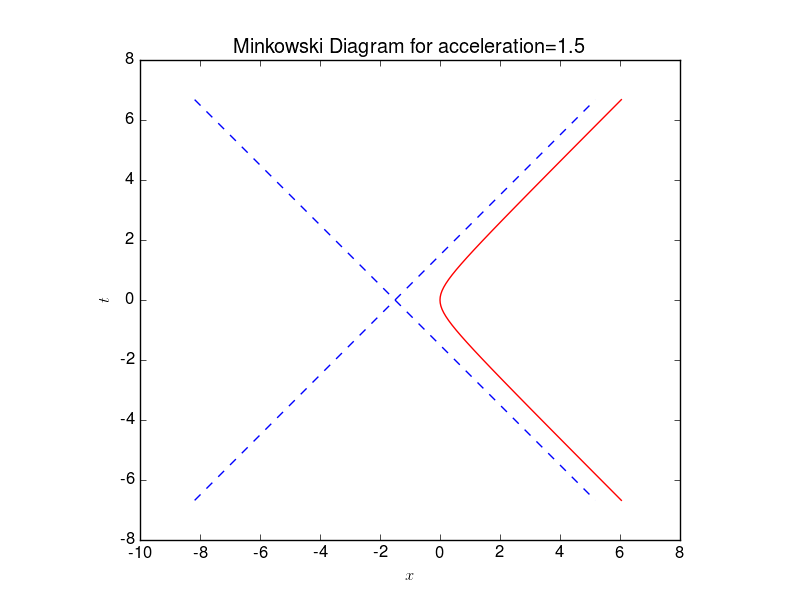
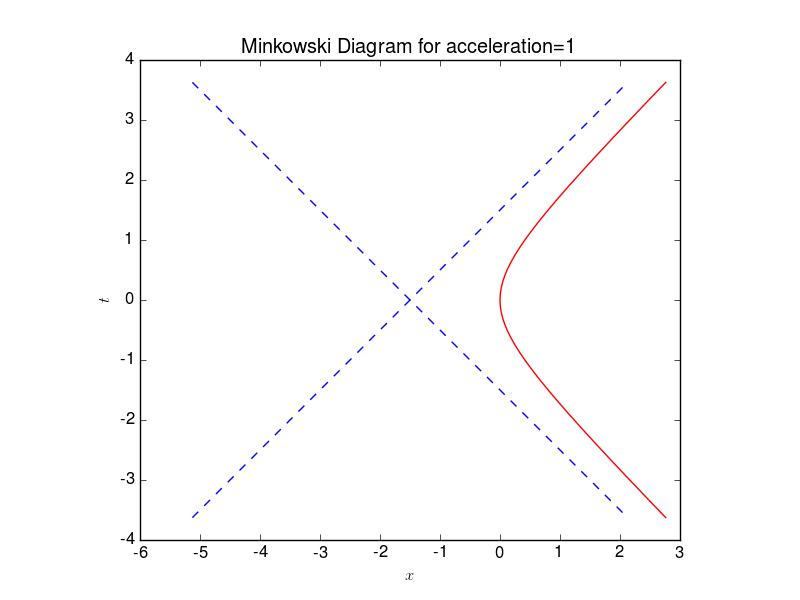
Minor simplification

diff --git a/GR-Problem-5-1.py b/GR-Problem-5-1.py
@@ -24,10 +24,8 @@ def create_steady_acceleration(a=1.5,s0=-2,s1=2,step=0.1):
 
 # Convert (t,x) style coordinates for Minkowski space to 
 # Coordinates suitable for a Penrose Carter diagram
-def convert_to_penrose_carter(z):
-     (t,x)=zip(*z)    
-     atans=[(m.atan(tt+xx),m.atan(tt-xx)) for (tt,xx) in z]
-     return [(a+b,a-b) for (a,b) in atans]
+def convert_to_penrose_carter(z): 
+     return [(a+b,a-b) for (a,b) in [(m.atan(t+x),m.atan(t-x)) for (t,x) in z]]
 
 # Plot a list of points, assuming Minkowski coordinates
 def minkowski_plot(z,figure=1,a=1.5,
@@ -52,20 +50,18 @@ def minkowski_plot(z,figure=1,a=1.5,
 
 # Plot a list of points, assuming
 # Penrose-Carter coordinates     
-def penrose_carter_plot(pc,gap=0.25,figure=1,
+def penrose_carter_plot(penrose_carter,gap=0.25,figure=1,
                         title='Penrose Carter Diagram'):
      # Function used to represent a light ray from one
      # boundary to another
      def light_ray():
-          # Function used to retrict a list to 
+          # Function used to restrict a list to 
           # being within boundafry
           def filter(zs):
-               return [(t,x) for (t,x) in zs
-                       if abs(x+t)<m.pi] 
-          t_last,x_last=pc[-1]
-          return filter([(x+t_last-x_last,x)
-                         for x in drange(-2.5,2.5,0.1)])
-     (t,x)=zip(*pc)
+               return [(t,x) for (t,x) in zs if abs(x+t)<m.pi] 
+          t_last,x_last=penrose_carter[-1]
+          return filter([(x+t_last-x_last,x) for x in drange(-2.5,2.5,0.1)])
+     (t,x)=zip(*penrose_carter)
      # Generate data for boundary and axes
      boundary_minus=list(drange(-m.pi,0))
      boundary_plus=list(drange(0,m.pi))
@@ -77,10 +73,10 @@ def penrose_carter_plot(pc,gap=0.25,figure=1,
      ax.set_aspect('equal')
      plt.rc('text', usetex=True)
      plt.plot(x,t,'r',
-              boundary_minus,boundary_plus,'b--',
-              boundary_plus,boundary_plus[::-1],'b--',
-              boundary_minus,boundary_minus[::-1],'b--',
-              boundary_plus,boundary_minus,'b--',
+              boundary_minus,boundary_plus,'m--',
+              boundary_plus,boundary_plus[::-1],'g--',
+              boundary_minus,boundary_minus[::-1],'c--',
+              boundary_plus,boundary_minus,'y--',
               i0,zeroes,'b',
               zeroes,i0,'b',
               x_light,t_light,'k:')
@@ -99,15 +95,14 @@ def penrose_carter_plot(pc,gap=0.25,figure=1,
      plt.xlabel(r'$\xi$')
      plt.ylabel(r'$\psi$')
      plt.title(title)
-     plt.savefig('images/GR-Problem-5-1-{0}.png'
-                 .format(figure))
+     plt.savefig('images/GR-Problem-5-1-{0}.png'.format(figure))
 
 if __name__=='__main__': 
      # We will do a Minkowski plot over a shorter range 
      # then the Penrose Carter, as otherwise scaling will
      # lose much of the detail from the plot
      
-     a=1.5
+     a=1
      minkowski_plot(
           create_steady_acceleration(a),
           figure=1,
@@ -116,7 +111,7 @@ if __name__=='__main__':
      penrose_carter_plot(
           convert_to_penrose_carter(
                create_steady_acceleration(
-                    1.5,s0=-20, s1=20)),
+                    a,s0=-2, s1=2)),
           figure=2,
           title='Penrose Carter Diagram for a={0}'
           .format(a) )
